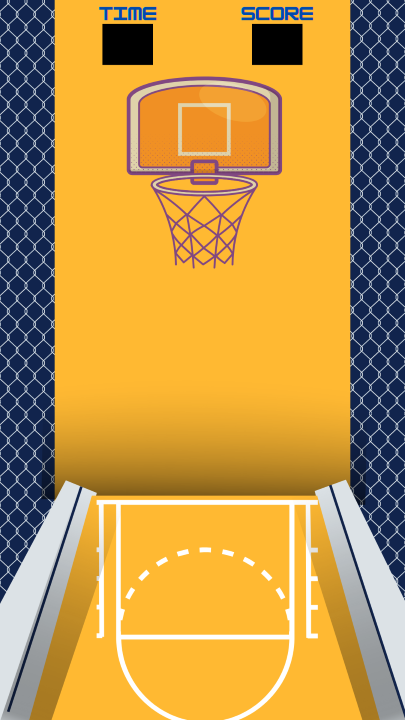
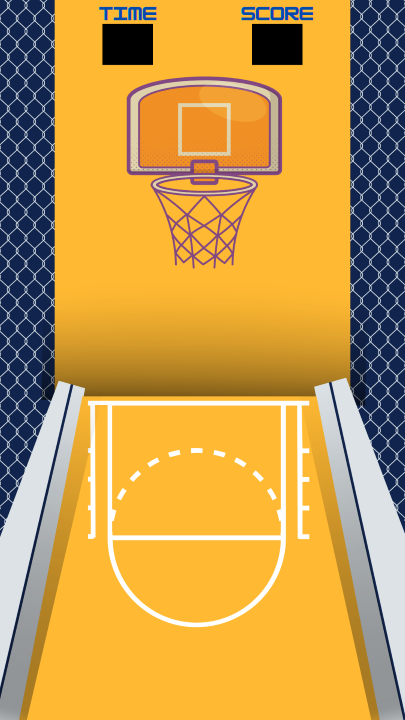
modify: Adjusted wallpaper to make the ball look farther from the ring

diff --git a/src/basketball/play.html b/src/basketball/play.html
@@ -35,7 +35,7 @@
 		// TODO
 		// add a check here if the user has already submitted the info using the form
 		// if not yet submitted, redirect to user form
-		var game = new Phaser.Game(405, 720, Phaser.CANVAS, '', { preload: preload, create: create, update: update });
+		var game = new Phaser.Game(405, 670, Phaser.CANVAS, '', { preload: preload, create: create, update: update });
 
 		function preload() {
 			game.load.image('arcade', '../assets/basketball/images/arcade.png');
